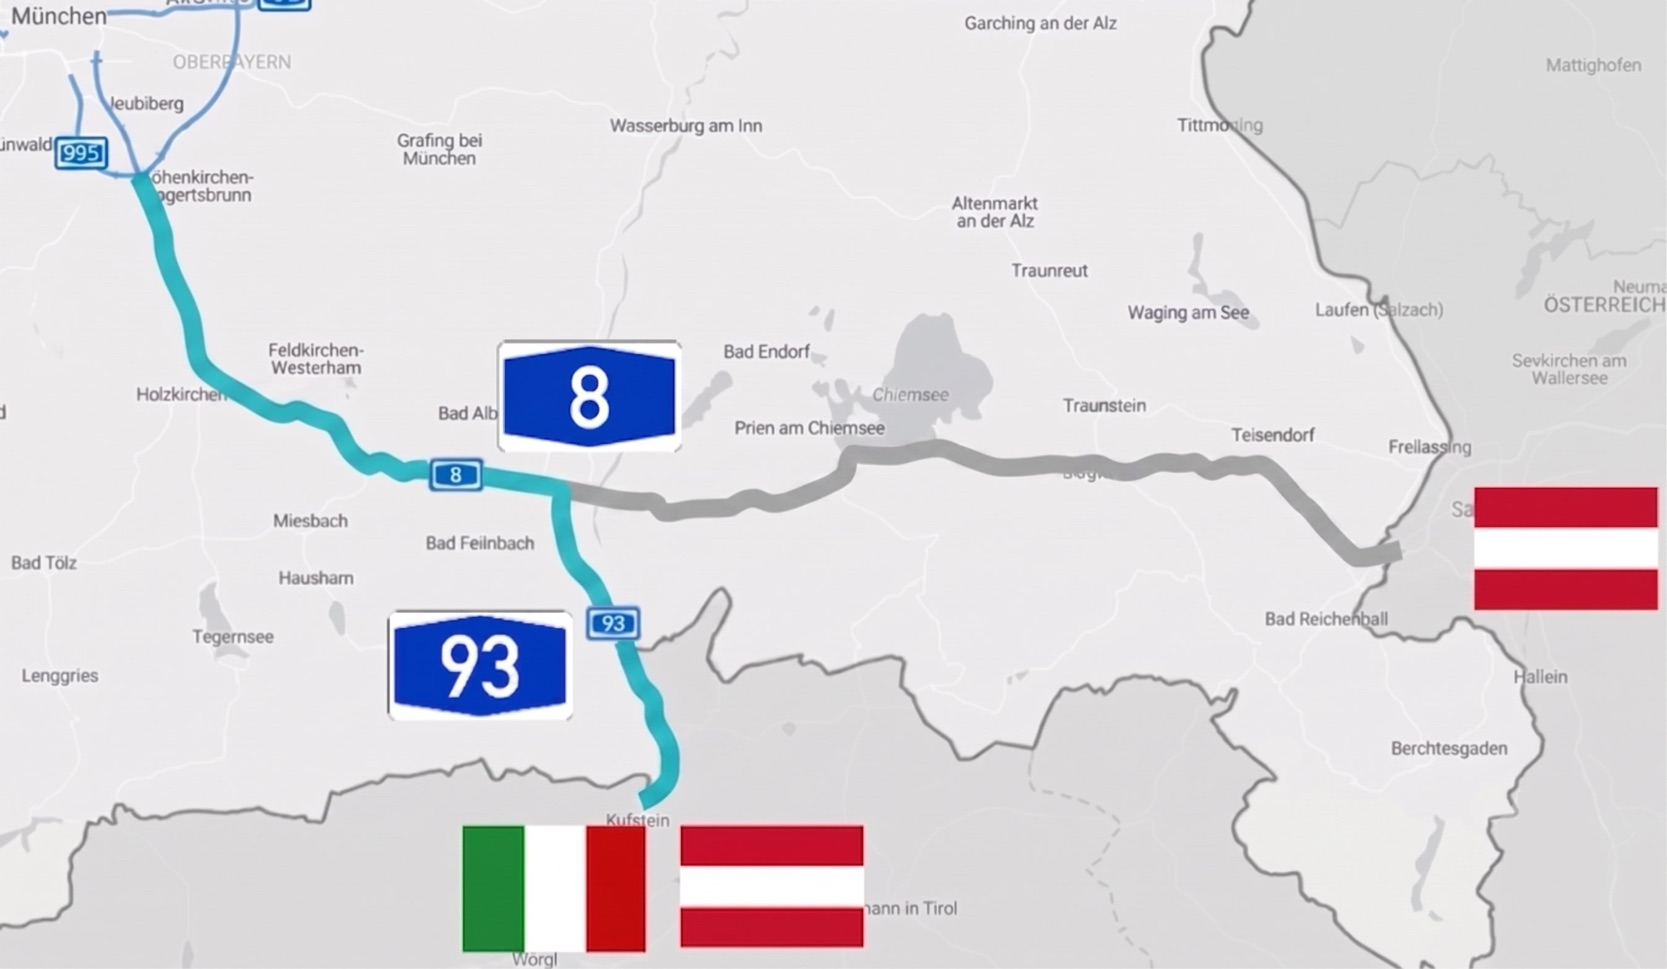
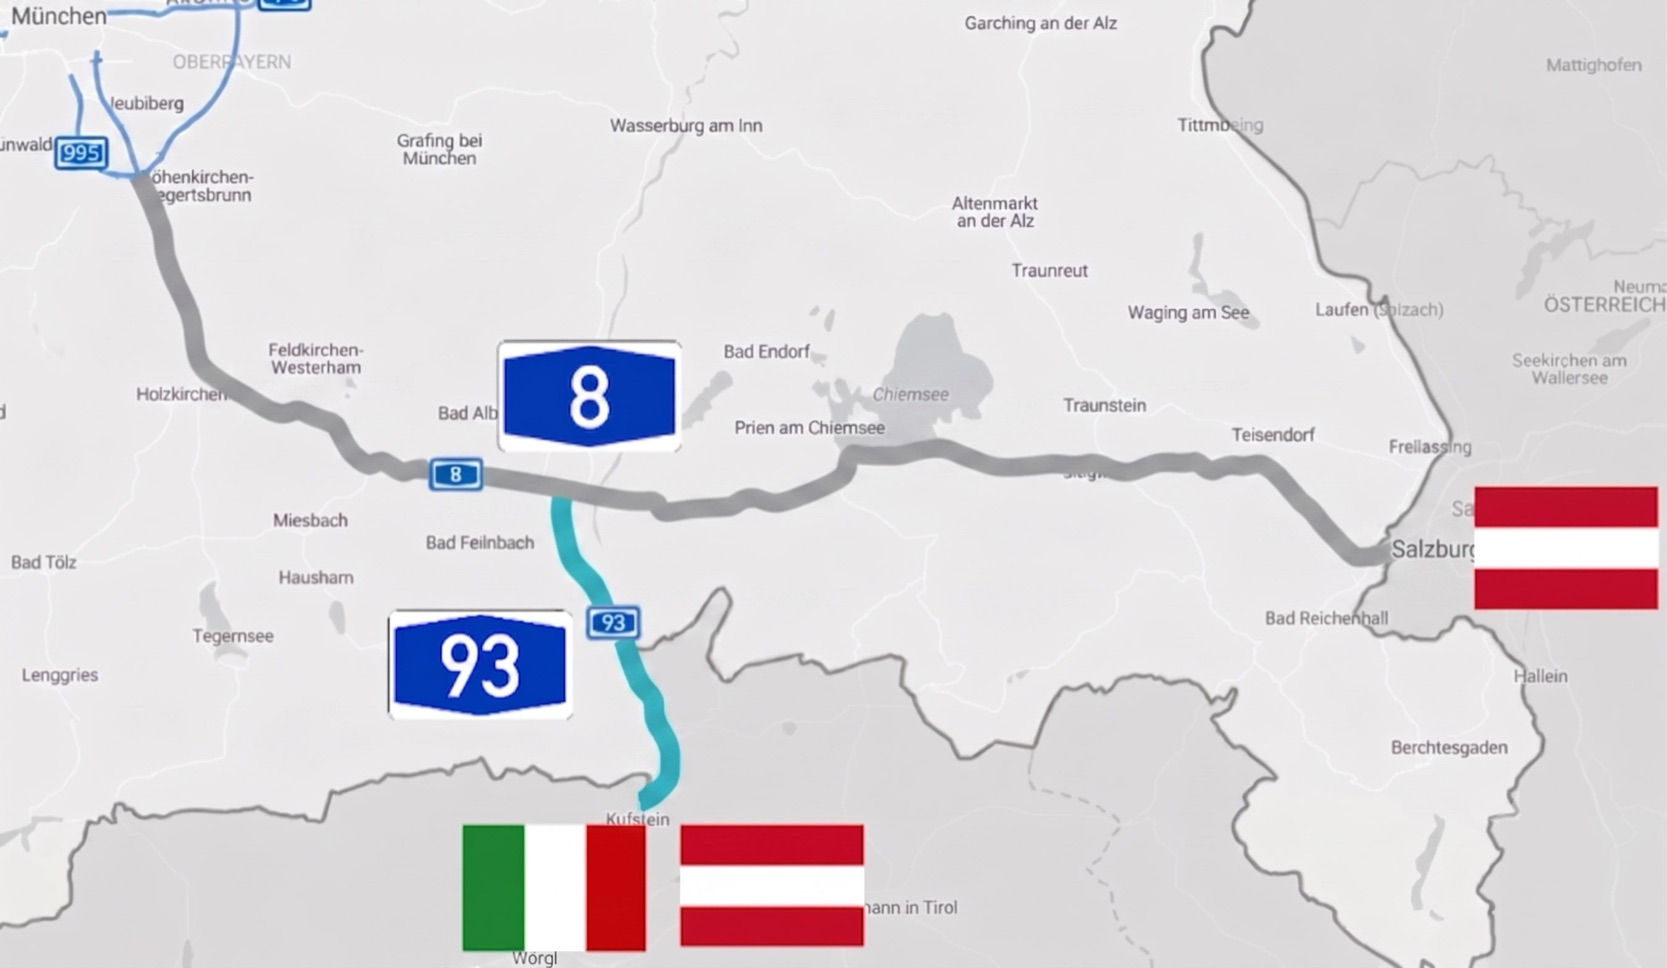
corrected sprites for a93

diff --git a/frontend/ui/app.js b/frontend/ui/app.js
@@ -869,7 +869,7 @@ function updateMapRoutes() {
 
   const el = document.getElementById('mapBox');
   if (el && el.tagName === 'IMG') {
-    const newSrc = state.strecke === 'A8' ? 'a8.png' : 'a93.png';
+    const newSrc = state.strecke === 'A8' ? 'a8.png?v=2' : 'a93.png?v=2';
     if (el.getAttribute('src') !== newSrc) {
       el.setAttribute('src', newSrc);
     }

diff --git a/frontend/ui/index.html b/frontend/ui/index.html
@@ -61,7 +61,7 @@
     </div>
 
       </div>
-      <img id="mapBox" class="ctrl-map" src="a93.png" alt="Streckenkarte">
+      <img id="mapBox" class="ctrl-map" src="a93.png?v=2" alt="Streckenkarte">
     </div>
     <!-- 4. HAUPTBEREICH -->
     <main class="grid">

diff --git a/frontend/ui/index_authority.html b/frontend/ui/index_authority.html
@@ -61,7 +61,7 @@
     </div>
 
       </div>
-      <img id="mapBox" class="ctrl-map" src="a93.png" alt="Streckenkarte">
+      <img id="mapBox" class="ctrl-map" src="a93.png?v=2" alt="Streckenkarte">
     </div>
     <!-- 4. HAUPTBEREICH -->
     <main class="grid">

diff --git a/frontend/ui/index_logistics.html b/frontend/ui/index_logistics.html
@@ -61,7 +61,7 @@
     </div>
 
       </div>
-      <img id="mapBox" class="ctrl-map" src="a93.png" alt="Streckenkarte">
+      <img id="mapBox" class="ctrl-map" src="a93.png?v=2" alt="Streckenkarte">
     </div>
     <!-- 4. HAUPTBEREICH -->
     <main class="grid">

diff --git a/frontend/ui/index_resident.html b/frontend/ui/index_resident.html
@@ -61,7 +61,7 @@
     </div>
 
       </div>
-      <img id="mapBox" class="ctrl-map" src="a93.png" alt="Streckenkarte">
+      <img id="mapBox" class="ctrl-map" src="a93.png?v=2" alt="Streckenkarte">
     </div>
     <!-- 4. HAUPTBEREICH -->
     <main class="grid">

diff --git a/frontend/ui/index_tourism.html b/frontend/ui/index_tourism.html
@@ -61,7 +61,7 @@
     </div>
 
       </div>
-      <img id="mapBox" class="ctrl-map" src="a93.png" alt="Streckenkarte">
+      <img id="mapBox" class="ctrl-map" src="a93.png?v=2" alt="Streckenkarte">
     </div>
     <!-- 4. HAUPTBEREICH -->
     <main class="grid">

diff --git a/frontend/ui/index_tourist.html b/frontend/ui/index_tourist.html
@@ -61,7 +61,7 @@
     </div>
 
       </div>
-      <img id="mapBox" class="ctrl-map" src="a93.png" alt="Streckenkarte">
+      <img id="mapBox" class="ctrl-map" src="a93.png?v=2" alt="Streckenkarte">
     </div>
     <!-- 4. HAUPTBEREICH -->
     <main class="grid">

diff --git a/frontend/ui/sidebar.js b/frontend/ui/sidebar.js
@@ -181,7 +181,7 @@ const Sidebar = {
     this.initMap();
     const el = document.getElementById('mapBox');
     if (el && el.tagName === 'IMG') {
-      const newSrc = state.strecke === 'A8' ? 'a8.png' : 'a93.png';
+      const newSrc = state.strecke === 'A8' ? 'a8.png?v=2' : 'a93.png?v=2';
       if (el.getAttribute('src') !== newSrc) {
         el.setAttribute('src', newSrc);
       }